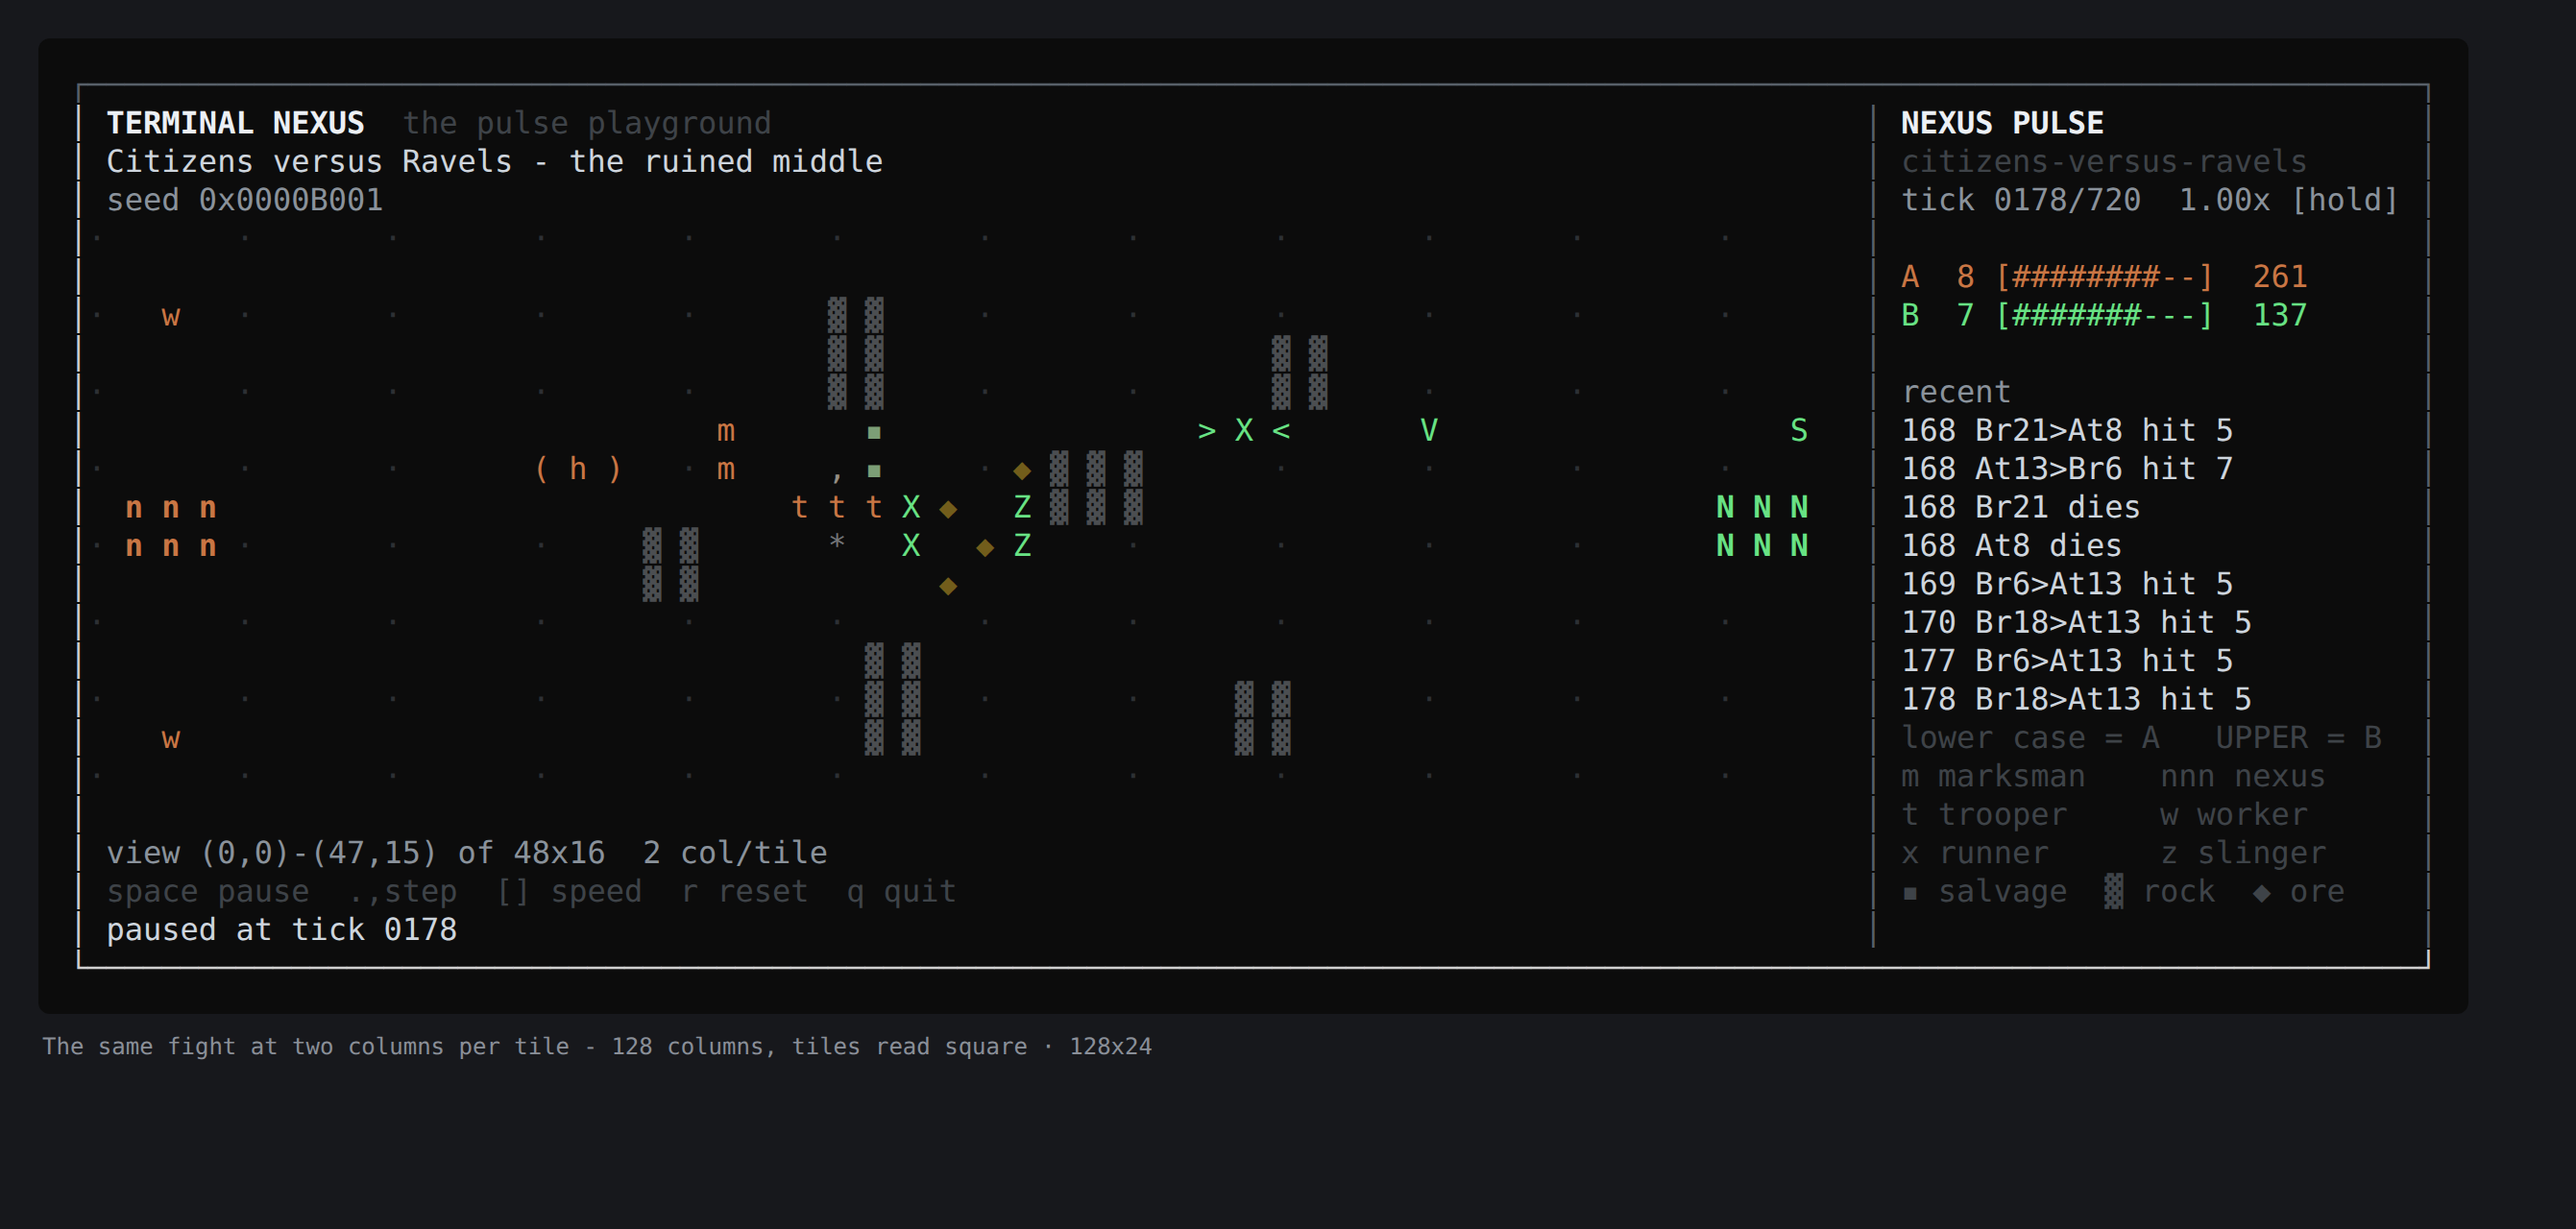
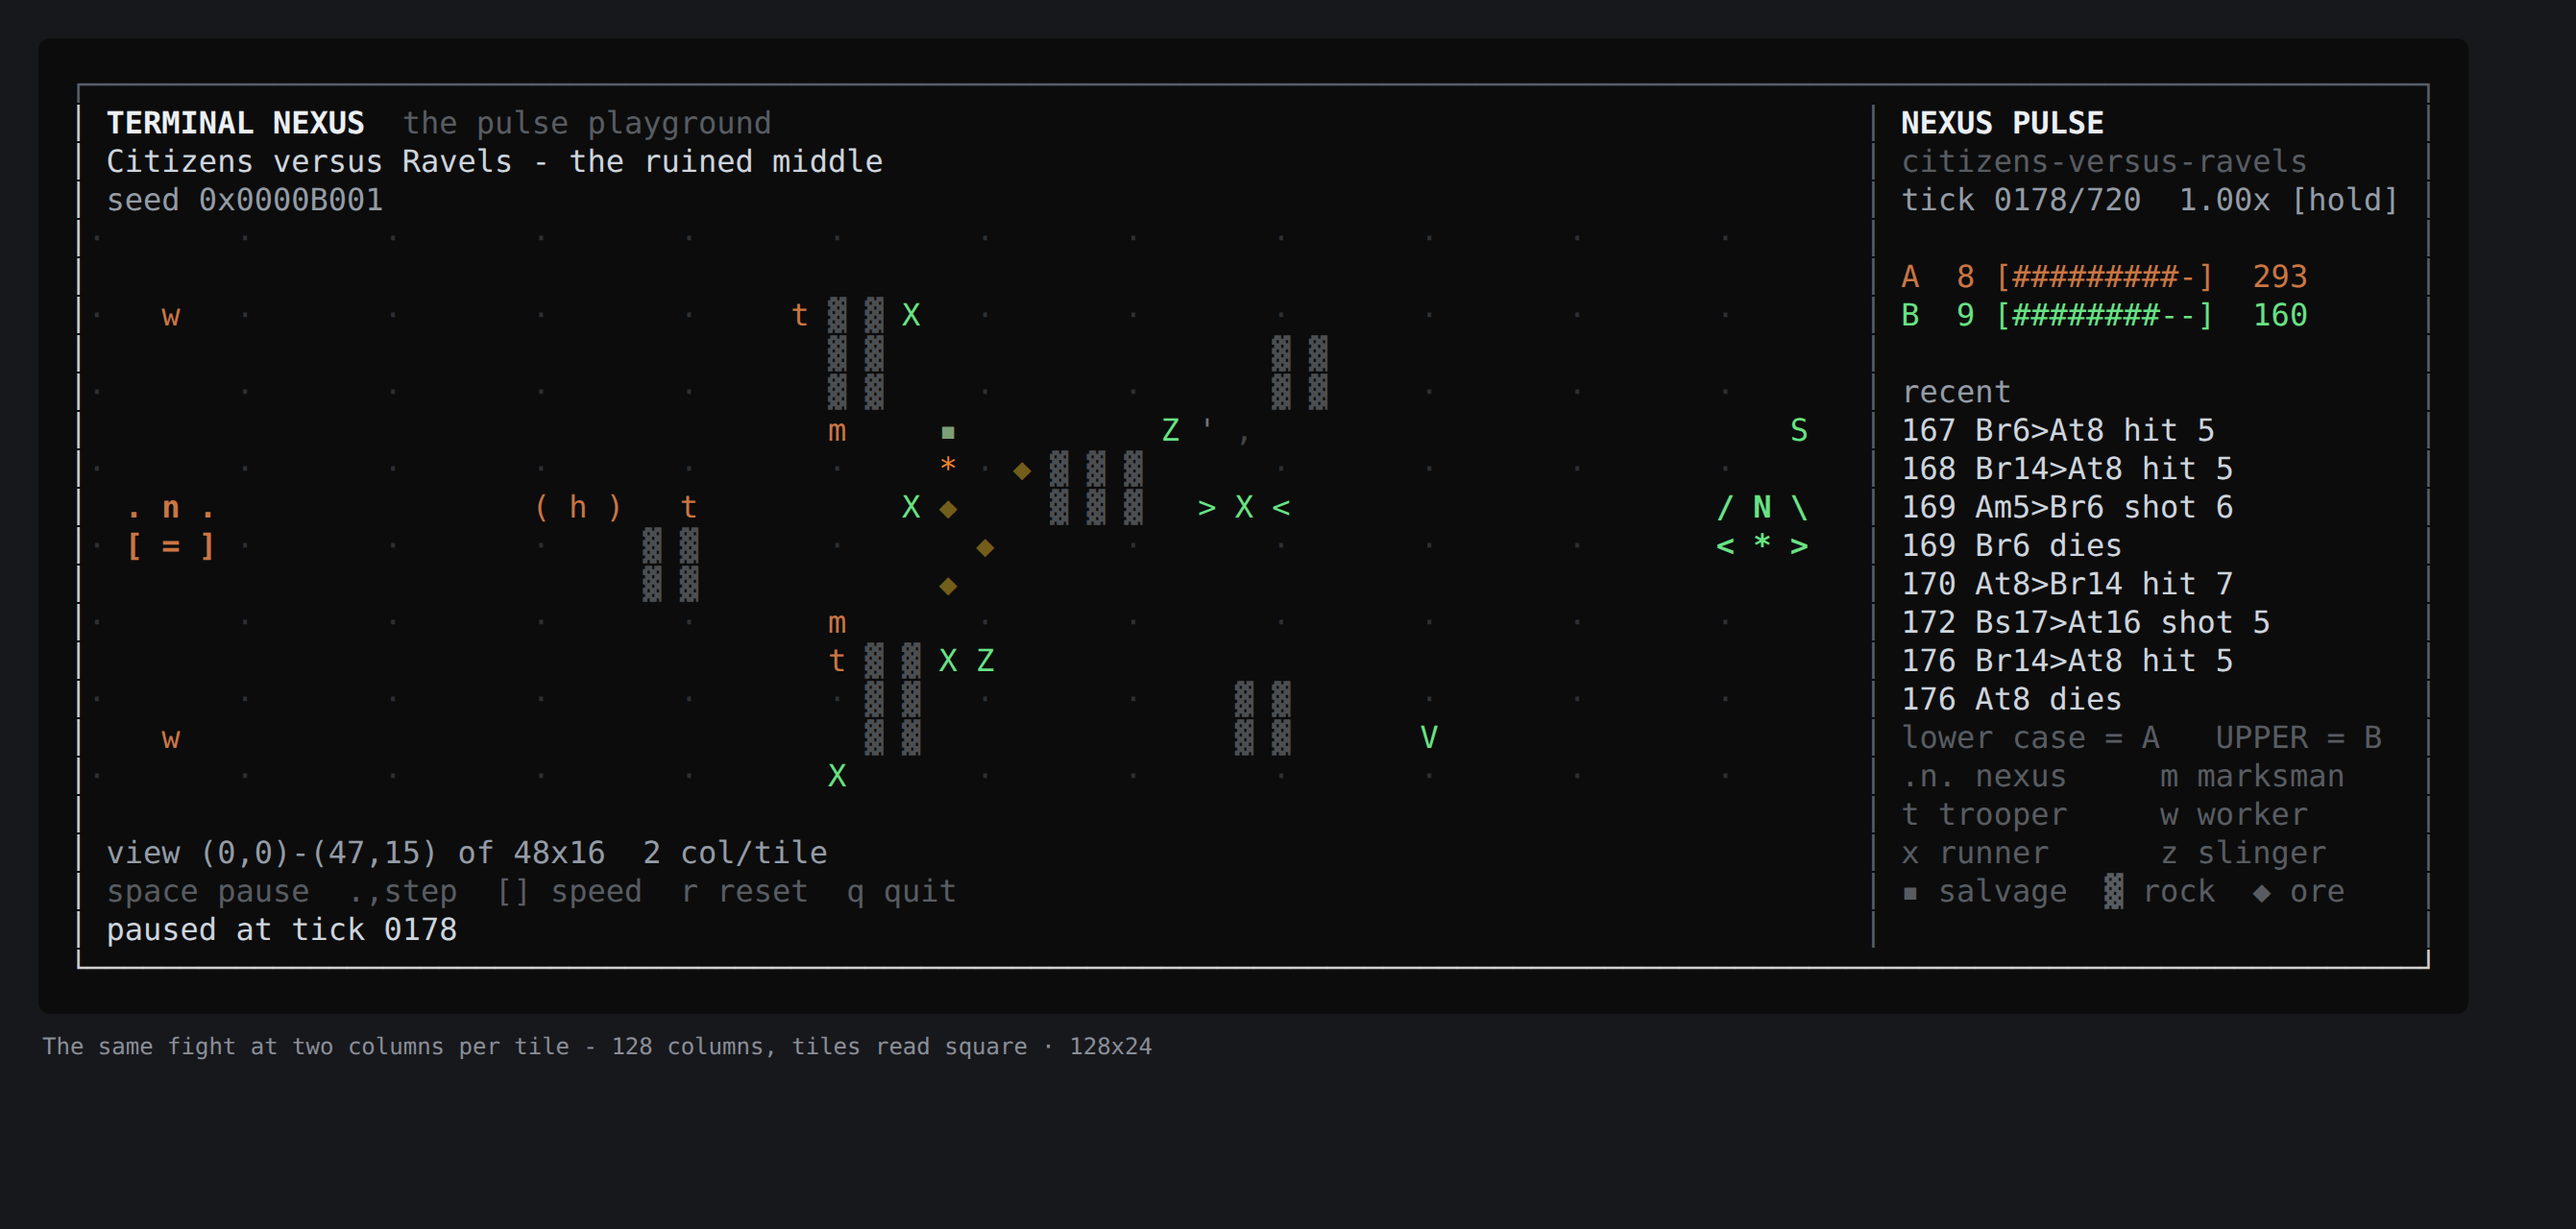
Draw a Nexus: multi-cell ASCII art for both factions' Grid Nexus
The owner's ask: "Draw a Nexus! I want to see it from the early
prototypes, we need to iterate on the nexus looks to the point of
perfection because this is the visual identity of the game." Until now
both factions' Nexus rendered as a single letter tiled six times across
its 3x2 footprint - "nnn / nnn" - which is what CONTENT_GLYPHS's array
form (already used for the hauler's `(h)` and the raider's `>x<`) exists
to fix but had never been pointed at the Nexus itself; the Ravel Nexus in
particular had no entry at all and only read "n" by coincidence of the
id-based fallback.

A first pass, deliberately - the owner's own framing is iteration to
perfection, not a final answer this session:

  Citizen (rounded, contained, engineered - the hauler's bracket language
  at a larger scale):
    .n.
    [=]

  Ravel (angular, forward-leaning, welded - a jagged canopy over arrows
  radiating from a spark, instead of a dome over a sealed base):
    /n\
    <*>

Ownership case-flips the identity letter exactly as it already does for
every other unit (n/N); the surrounding punctuation has no case, so it
stays put for both players. evidence/screenshots/ravels-clash.png etc. now
show both Nexuses standing during a real fight, not just at rest.

Regenerating the evidence screenshots this touches surfaced one unrelated
stale fixture: nexus-falls.png was pinned to tick 404, but the trooper/
marksman speed change earlier this session (task #6) now ends
[…]

diff --git a/src/view/theme.ts b/src/view/theme.ts
@@ -85,7 +85,12 @@ const CONTENT_GLYPHS: Readonly<Record<string, string | readonly string[]>> = {
   "unit.citizen.trooper": "t",
   "unit.citizen.marksman": "m",
   "unit.citizen.hauler": ["(", "h", ")"],
-  "structure.citizen.nexus": "n",
+  // The Nexus is the visual identity the owner asked to see first, and the one worth the most
+  // iteration — this is a first pass, not a final answer. Same 3x2 footprint order as
+  // rectFootprint(3, 2): left-to-right on the top row, then left-to-right on the bottom
+  // ([0,0] [1,0] [2,0] [0,1] [1,1] [2,1]). Citizen reuses the hauler's bracket language at a larger
+  // scale — a domed core over a sealed, bracketed base — rather than inventing a second vocabulary.
+  "structure.citizen.nexus": [".", "n", ".", "[", "=", "]"],
   "structure.citizen.barracks": "b",
   // Ravels: angular, forward-leaning, improvised. Their multi-tile body is the raider the lore
   // draws as `>x<`, where the arrowheads say which way the energy is going and the letter carries
@@ -95,6 +100,9 @@ const CONTENT_GLYPHS: Readonly<Record<string, string | readonly string[]>> = {
   "unit.ravel.slinger": "z",
   "unit.ravel.fuelwagon": "v",
   "unit.ravel.raider": [">", "x", "<"],
+  // The Ravel Nexus: a jagged canopy over exposed arrowheads radiating from a spark, instead of the
+  // Citizen Nexus's dome and sealed base - welded, not engineered, and it shows even standing still.
+  "structure.ravel.nexus": ["/", "n", "\\", "<", "*", ">"],
   "structure.ravel.den": "d",
 }
 
